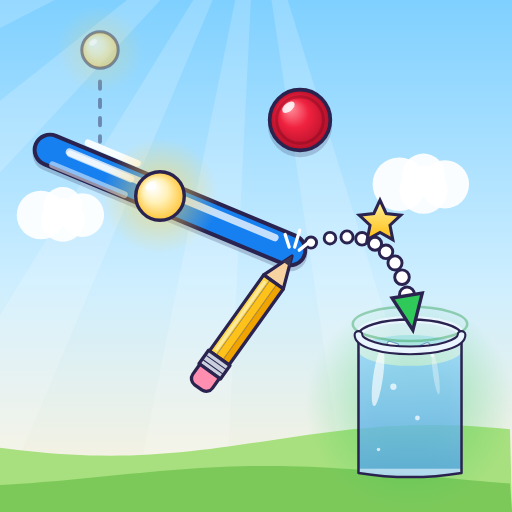
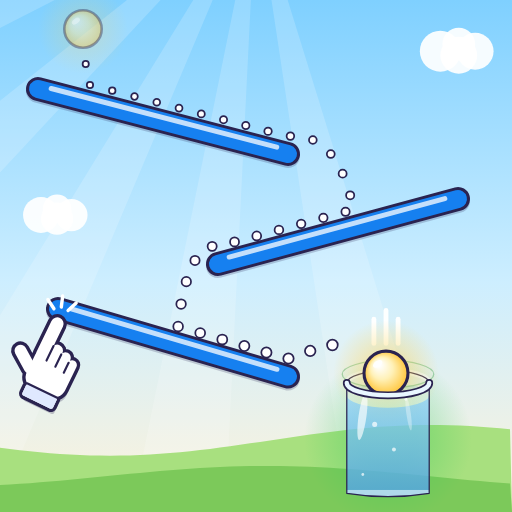
Refresh marketing art and thumbnail scene
This release updates the marketing images to the new ball-to-cup style, turns off the temporary unlock-all testing flag in RewardManager, and reworks the thumbnail generator scene to match the final composition.

Changed region(s): [[0.0, 0.0, 0.9688, 1.0], [0.8125, 0.0312, 0.9688, 0.1562]]

diff --git a/tools/thumb.entry.ts b/tools/thumb.entry.ts
@@ -7,38 +7,35 @@ import { drawSeg } from '../src/render/primitives';
 import { RAMP, INK, BALL } from '../src/render/palette';
 
 type P = [number, number];
+
+/* THE SCENE, in a 1000 x 1000 unit box: three ramps zig-zag the ball down
+   the screen into a glass of water. The ball hangs just over the mouth, the
+   moment before it drops in; the cursor hand rests at the ramp it just drew. */
+const START: P = [150, 50];
+const RAMPS: [P, P][] = [
+  [[60, 170], [560, 300]],
+  [[900, 390], [420, 520]],
+  [[100, 610], [560, 745]],
+];
+const CUP: P = [760, 870]; const CUP_R = 112;
+const BR = 44, RT = 18;                           // ball radius, ramp half-thickness
+const HAND: P = [104, 628];                        // fingertip, at R3's left end
+const BALL_AT: P = [756, CUP[1] - CUP_R - BR * 0.45];
+
 interface Layout {
-  W: number; H: number; k: number;              // canvas size, art scale
+  W: number; H: number;
+  box: { x: number; y: number; s: number };      // where the scene sits, and its scale
   title?: { x: number; y: number; size: number; sub: number; maxW: number };
-  ramp: [P, P];                                  // the drawn ramp
-  ball: P;                                       // the ball, rolling on the ramp
-  drop: P;                                       // where the ball fell from
-  arc: P[];                                      // the flight from ramp to cup (control pts)
-  cup: P; cupR: number;
-  hand: P;                                       // the finger that drew the ramp
-  obstacles: P[]; star?: P;
 }
 
 const LAYOUTS: Record<string, Layout> = {
-  landscape: { W: 1920, H: 1080, k: 1,
-    title: { x: 960, y: 175, size: 190, sub: 78, maxW: 1700 },
-    drop: [430, 300], ramp: [[330, 470], [1080, 700]], ball: [700, 556],
-    arc: [[1080, 700], [1430, 540], [1500, 690]], cup: [1500, 860], cupR: 150,
-    hand: [1090, 712], obstacles: [[880, 440], [1230, 450]], star: [1300, 618] },
-  portrait: { W: 800, H: 1200, k: 0.62,
-    title: { x: 400, y: 150, size: 128, sub: 54, maxW: 740 },
-    drop: [170, 380], ramp: [[110, 520], [560, 720]], ball: [330, 610],
-    arc: [[560, 720], [700, 690], [615, 855]], cup: [610, 1000], cupR: 116,
-    hand: [562, 736], obstacles: [[470, 520], [160, 860]], star: [668, 742] },
-  square: { W: 800, H: 800, k: 0.55,
-    title: { x: 400, y: 110, size: 104, sub: 44, maxW: 740 },
-    drop: [150, 250], ramp: [[90, 360], [500, 520]], ball: [290, 438],
-    arc: [[500, 520], [650, 470], [645, 585]], cup: [645, 690], cupR: 90,
-    hand: [504, 536], obstacles: [[420, 300], [130, 560]], star: [612, 478] },
-  icon: { W: 512, H: 512, k: 0.42,
-    drop: [100, 50], ramp: [[50, 150], [290, 250]], ball: [160, 196],
-    arc: [[290, 250], [400, 205], [410, 315]], cup: [410, 405], cupR: 70,
-    hand: [292, 256], obstacles: [[300, 120]], star: [380, 222] },
+  landscape: { W: 1920, H: 1080, box: { x: 930, y: 40, s: 0.95 },
+    title: { x: 470, y: 430, size: 176, sub: 74, maxW: 840 } },
+  portrait: { W: 800, H: 1200, box: { x: 18, y: 345, s: 0.8 },
+    title: { x: 400, y: 140, size: 128, sub: 54, maxW: 740 } },
+  square: { W: 800, H: 800, box: { x: 110, y: 205, s: 0.595 },
+    title: { x: 400, y: 92, size: 104, sub: 44, maxW: 740 } },
+  icon: { W: 512, H: 512, box: { x: 8, y: 4, s: 0.5 } },
 };
 
 function sky(ctx: CanvasRenderingContext2D, L: Layout): void {
@@ -60,7 +57,7 @@ function sky(ctx: CanvasRenderingContext2D, L: Layout): void {
       ctx.beginPath(); ctx.arc(x + dx * s, y + dy * s, r * s, 0, Math.PI * 2); ctx.fill();
     }
   };
-  cloud(L.W * 0.08, L.H * 0.42, 34 * L.k + 10); cloud(L.W * 0.78, L.H * 0.36, 40 * L.k + 10);
+  cloud(L.W * 0.08, L.H * 0.42, L.H * 0.035); cloud(L.W * 0.86, L.H * 0.1, L.H * 0.04);
   // hills
   const hill = (y: number, col: string, amp: number, ph: number) => {
     ctx.fillStyle = col; ctx.beginPath(); ctx.moveTo(0, L.H);
@@ -85,95 +82,105 @@ function ball(ctx: CanvasRenderingContext2D, x: number, y: number, r: number): v
   ctx.restore();
 }
 
-function speedLines(ctx: CanvasRenderingContext2D, L: Layout, r: number): void {
-  const [[x1, y1], [x2, y2]] = L.ramp, [bx, by] = L.ball;
-  const len = Math.hypot(x2 - x1, y2 - y1), ux = (x2 - x1) / len, uy = (y2 - y1) / len;
-  ctx.save(); ctx.lineCap = 'round';
-  for (let i = 0; i < 3; i++) {
-    const off = (i - 1) * r * 0.7, back = r * (2.2 + i * 0.5);
-    ctx.strokeStyle = `rgba(255,255,255,${0.9 - i * 0.2})`; ctx.lineWidth = r * 0.28;
-    ctx.beginPath();
-    ctx.moveTo(bx - ux * r * 1.3 - uy * off, by - uy * r * 1.3 + ux * off - r * 0.2);
-    ctx.lineTo(bx - ux * (r * 1.3 + back) - uy * off, by - uy * (r * 1.3 + back) + ux * off - r * 0.2);
-    ctx.stroke();
+
+/* The point a ball resting on ramp `r` would have its centre at, over x. */
+function onRamp(r: [P, P], x: number): P {
+  const [[x1, y1], [x2, y2]] = r;
+  const t = (x - x1) / (x2 - x1), y = y1 + (y2 - y1) * t;
+  const len = Math.hypot(x2 - x1, y2 - y1);
+  let nx = -(y2 - y1) / len, ny = (x2 - x1) / len;
+  if (ny > 0) { nx = -nx; ny = -ny; }             // the side facing up
+  return [x + nx * (RT + 16), y + ny * (RT + 16)];
+}
+
+/* The ball's route as a polyline: drop, roll, hop, roll, hop, roll, over the cup. */
+function route(): P[] {
+  const pts: P[] = [];
+  const quad = (a: P, c: P, b: P, n = 14) => {
+    for (let i = 1; i <= n; i++) {
+      const t = i / n;
+      pts.push([(1 - t) ** 2 * a[0] + 2 * (1 - t) * t * c[0] + t * t * b[0],
+                (1 - t) ** 2 * a[1] + 2 * (1 - t) * t * c[1] + t * t * b[1]]);
+    }
+  };
+  const line = (a: P, b: P, n = 16) => { for (let i = 1; i <= n; i++) { const t = i / n; pts.push([a[0] + (b[0] - a[0]) * t, a[1] + (b[1] - a[1]) * t]); } };
+  pts.push(START);
+  const l1 = onRamp(RAMPS[0], START[0]); line(START, l1, 8);
+  const e1 = onRamp(RAMPS[0], RAMPS[0][1][0] - 10); line(l1, e1);
+  const l2 = onRamp(RAMPS[1], 700); quad(e1, [660, e1[1] - 10], l2);
+  const e2 = onRamp(RAMPS[1], RAMPS[1][1][0] + 10); line(l2, e2);
+  const l3 = onRamp(RAMPS[2], 330); quad(e2, [360, e2[1] - 10], l3);
+  const e3 = onRamp(RAMPS[2], RAMPS[2][1][0] - 10); line(l3, e3);
+  quad(e3, [720, e3[1] - 60], [BALL_AT[0], BALL_AT[1] - BR]);
+  return pts;
+}
+
+/* White dots along the route, evenly spaced, growing toward the ball. */
+function trail(ctx: CanvasRenderingContext2D): void {
+  const pts = route();
+  const cum = [0];
+  for (let i = 1; i < pts.length; i++) cum.push(cum[i - 1] + Math.hypot(pts[i][0] - pts[i - 1][0], pts[i][1] - pts[i - 1][1]));
+  const total = cum[cum.length - 1], step = 46;
+  let j = 0;
+  for (let d = BR * 1.6; d < total - BR * 1.8; d += step) {
+    while (cum[j + 1] < d) j++;
+    const t = (d - cum[j]) / (cum[j + 1] - cum[j]);
+    const x = pts[j][0] + (pts[j + 1][0] - pts[j][0]) * t, y = pts[j][1] + (pts[j + 1][1] - pts[j][1]) * t;
+    const k = d / total;
+    ctx.fillStyle = '#ffffff'; ctx.strokeStyle = INK; ctx.lineWidth = 3.5;
+    ctx.beginPath(); ctx.arc(x, y, 6 + 5 * k, 0, Math.PI * 2); ctx.fill(); ctx.stroke();
   }
-  ctx.restore();
 }
 
-function dotted(ctx: CanvasRenderingContext2D, pts: P[], r: number, col = '#ffffff'): void {
-  const [a, c, b] = pts;
-  const n = 9;
-  for (let i = 1; i <= n; i++) {
-    const t = i / (n + 1);
-    const x = (1 - t) * (1 - t) * a[0] + 2 * (1 - t) * t * c[0] + t * t * b[0];
-    const y = (1 - t) * (1 - t) * a[1] + 2 * (1 - t) * t * c[1] + t * t * b[1];
-    ctx.fillStyle = col; ctx.strokeStyle = INK; ctx.lineWidth = Math.max(2, r * 0.12);
-    ctx.beginPath(); ctx.arc(x, y, r * (0.22 + 0.1 * t), 0, Math.PI * 2); ctx.fill(); ctx.stroke();
-  }
-  // arrow head into the cup
-  const t = 0.97, t2 = 0.9;
-  const P = (t: number) => [(1 - t) * (1 - t) * a[0] + 2 * (1 - t) * t * c[0] + t * t * b[0], (1 - t) * (1 - t) * a[1] + 2 * (1 - t) * t * c[1] + t * t * b[1]];
-  const [x, y] = P(t), [px, py] = P(t2), ang = Math.atan2(y - py, x - px), s = r * 0.9;
-  ctx.save(); ctx.translate(x, y); ctx.rotate(ang);
-  ctx.beginPath(); ctx.moveTo(s, 0); ctx.lineTo(-s * 0.6, -s * 0.7); ctx.lineTo(-s * 0.6, s * 0.7); ctx.closePath();
-  ctx.fillStyle = '#2fc95a'; ctx.fill(); ctx.lineWidth = Math.max(3, r * 0.14); ctx.strokeStyle = INK; ctx.stroke();
-  ctx.restore();
-}
-
-function dropLine(ctx: CanvasRenderingContext2D, L: Layout, r: number): void {
-  const [dx, dy] = L.drop, [rx, ry] = L.ramp[0];
-  ctx.save(); ctx.setLineDash([r * 0.3, r * 0.45]); ctx.lineCap = 'round';
-  ctx.strokeStyle = 'rgba(42,35,80,.45)'; ctx.lineWidth = r * 0.16;
-  ctx.beginPath(); ctx.moveTo(dx, dy + r * 1.3); ctx.lineTo(dx, ry + (dx - rx) * ((L.ramp[1][1] - ry) / (L.ramp[1][0] - rx)) - r * 1.2); ctx.stroke();
-  ctx.restore();
-  // the spawn: a faint ball outline where it dropped from
-  ctx.save(); ctx.globalAlpha = 0.45; ball(ctx, dx, dy, r * 0.75); ctx.restore();
-}
-
-function hand(ctx: CanvasRenderingContext2D, x: number, y: number, s: number): void {
-  // a big friendly PENCIL drawing the ramp: its tip at (x, y), coming in from the bottom-left
-  ctx.save(); ctx.translate(x, y); ctx.rotate(0.62); ctx.scale(s, s);
-  ctx.lineJoin = 'round'; ctx.lineWidth = 6; ctx.strokeStyle = INK;
-  // sparkles where it draws
+/* The pointer hand everybody knows from a mouse cursor: a white glove, index
+   finger up, fingertip at the origin. Drawn as a union - every piece stroked
+   fat in ink first, then every piece filled white over it - so it reads as
+   one clean outlined shape. */
+function cursorHand(ctx: CanvasRenderingContext2D, x: number, y: number, s: number, rot: number): void {
+  ctx.save(); ctx.translate(x, y); ctx.rotate(rot); ctx.scale(s, s);
+  const parts = (c: CanvasRenderingContext2D) => {
+    c.beginPath();
+    c.roundRect(-15, 0, 30, 112, 15);              // index finger
+    c.roundRect(13, 58, 28, 62, 14);               // middle, folded
+    c.roundRect(39, 66, 26, 56, 13);               // ring
+    c.roundRect(63, 76, 22, 48, 11);               // little
+    c.roundRect(-15, 92, 100, 86, [10, 10, 30, 30]); // palm
+    c.roundRect(-3, 172, 80, 30, 6);               // cuff
+  };
+  const thumb = (c: CanvasRenderingContext2D) => {
+    c.save(); c.translate(-8, 140); c.rotate(-0.95);
+    c.beginPath(); c.roundRect(-14, -66, 28, 74, 14); c.restore();
+  };
+  // shadow
+  ctx.save(); ctx.translate(8, 10); ctx.fillStyle = 'rgba(42,35,80,.25)';
+  parts(ctx); ctx.fill(); thumb(ctx); ctx.fill(); ctx.restore();
+  // outline, then fill
+  ctx.lineJoin = 'round'; ctx.strokeStyle = INK; ctx.lineWidth = 16;
+  parts(ctx); ctx.stroke(); thumb(ctx); ctx.stroke();
   ctx.fillStyle = '#ffffff';
-  for (const [a, l] of [[-2.5, 30], [-1.9, 38], [-1.3, 30]] as const) {
-    ctx.save(); ctx.rotate(a); ctx.beginPath(); ctx.roundRect(14, -3, l, 6, 3); ctx.fill(); ctx.restore();
+  parts(ctx); ctx.fill(); thumb(ctx); ctx.fill();
+  // cuff tint and the creases between fingers
+  ctx.fillStyle = '#dfe8ff'; ctx.beginPath(); ctx.roundRect(-3, 172, 80, 30, 6); ctx.fill();
+  ctx.strokeStyle = INK; ctx.lineWidth = 5; ctx.lineCap = 'round';
+  ctx.beginPath(); ctx.moveTo(-3, 172); ctx.lineTo(77, 172); ctx.stroke();
+  for (const [cx, y0, y1] of [[15, 66, 104], [40, 76, 108], [64, 86, 112]] as const) {
+    ctx.beginPath(); ctx.moveTo(cx, y0); ctx.lineTo(cx, y1); ctx.stroke();
   }
-  const w = 44;                                   // body width; the pencil runs down +y
-  // wood cone and graphite point
-  ctx.fillStyle = '#f6d3a1';
-  ctx.beginPath(); ctx.moveTo(0, 0); ctx.lineTo(w / 2, 58); ctx.lineTo(-w / 2, 58); ctx.closePath(); ctx.fill(); ctx.stroke();
-  ctx.fillStyle = '#3a3550';
-  ctx.beginPath(); ctx.moveTo(0, 0); ctx.lineTo(8, 18); ctx.lineTo(-8, 18); ctx.closePath(); ctx.fill();
-  // the painted body, in three faces
-  const body = (x0: number, x1: number, col: string) => { ctx.fillStyle = col; ctx.fillRect(x0, 58, x1 - x0, 170); };
-  body(-w / 2, -w / 6, '#ffd84a'); body(-w / 6, w / 6, '#ffc21a'); body(w / 6, w / 2, '#f0a400');
-  ctx.beginPath(); ctx.rect(-w / 2, 58, w, 170); ctx.stroke();
-  ctx.lineWidth = 2; ctx.strokeStyle = 'rgba(42,35,80,.35)';
-  for (const xx of [-w / 6, w / 6]) { ctx.beginPath(); ctx.moveTo(xx, 58); ctx.lineTo(xx, 228); ctx.stroke(); }
-  ctx.lineWidth = 6; ctx.strokeStyle = INK;
-  // metal band
-  ctx.fillStyle = '#c9cfdc'; ctx.beginPath(); ctx.rect(-w / 2 - 2, 228, w + 4, 30); ctx.fill(); ctx.stroke();
-  ctx.lineWidth = 2;
-  for (const yy of [238, 248]) { ctx.beginPath(); ctx.moveTo(-w / 2, yy); ctx.lineTo(w / 2, yy); ctx.stroke(); }
-  ctx.lineWidth = 6;
-  // pink eraser
-  ctx.fillStyle = '#ff8fb1'; ctx.beginPath(); ctx.roundRect(-w / 2, 258, w, 36, [0, 0, 14, 14]); ctx.fill(); ctx.stroke();
-  // shine down the lit face
-  ctx.fillStyle = 'rgba(255,255,255,.45)'; ctx.fillRect(-w / 2 + 6, 66, 6, 154);
+  // a little tap burst at the fingertip
+  ctx.strokeStyle = '#ffffff'; ctx.lineWidth = 8;
+  for (const a of [-2.6, -1.9, -1.2]) {
+    ctx.beginPath(); ctx.moveTo(Math.cos(a) * 26, Math.sin(a) * 26); ctx.lineTo(Math.cos(a) * 52, Math.sin(a) * 52); ctx.stroke();
+  }
   ctx.restore();
 }
 
-function starShape(ctx: CanvasRenderingContext2D, x: number, y: number, s: number): void {
-  ctx.save(); ctx.translate(x, y);
-  ctx.beginPath();
-  for (let i = 0; i < 10; i++) {
-    const a = -Math.PI / 2 + i * Math.PI / 5, rr = i % 2 ? s * 0.48 : s;
-    i ? ctx.lineTo(Math.cos(a) * rr, Math.sin(a) * rr) : ctx.moveTo(Math.cos(a) * rr, Math.sin(a) * rr);
+/* Short streaks over the ball: it is falling, straight in. */
+function fallLines(ctx: CanvasRenderingContext2D, x: number, y: number, r: number): void {
+  ctx.save(); ctx.lineCap = 'round'; ctx.strokeStyle = 'rgba(255,255,255,.95)';
+  for (const [dx, l] of [[-0.55, 1.1], [0, 1.5], [0.55, 1.1]] as const) {
+    ctx.lineWidth = r * 0.22;
+    ctx.beginPath(); ctx.moveTo(x + dx * r, y - r * 1.35); ctx.lineTo(x + dx * r, y - r * (1.35 + l)); ctx.stroke();
   }
-  ctx.closePath();
-  const g = ctx.createLinearGradient(0, -s, 0, s); g.addColorStop(0, '#fff3a0'); g.addColorStop(1, '#ffb800');
-  ctx.fillStyle = g; ctx.fill(); ctx.lineWidth = Math.max(3, s * 0.14); ctx.strokeStyle = INK; ctx.stroke();
   ctx.restore();
 }
 
@@ -222,22 +229,20 @@ function render(name: string): void {
   const c = document.createElement('canvas'); c.width = L.W; c.height = L.H; c.id = 'c';
   document.body.appendChild(c);
   const ctx = c.getContext('2d')!;
-  const br = 34 * L.k + 10;                         // ball radius in this layout
-  sky(ctx, L);
-  for (const [x, y] of L.obstacles) drawObstacle(ctx, { x, y, r: br * 1.25 });
-  dropLine(ctx, L, br);
-  // the cup, back half
-  ctx.save(); ctx.translate(L.cup[0], L.cup[1]); drawCupBack(ctx, L.cupR, 'meadow', 0.6); ctx.restore();
-  // the ramp the player drew
-  const [[x1, y1], [x2, y2]] = L.ramp;
-  drawSeg(ctx, { x1, y1, x2, y2 }, br * 0.55, { fill: RAMP.base, shine: 'rgba(255,255,255,.75)', outline: Math.max(4, br * 0.16), shadow: true });
-  dotted(ctx, L.arc, br);
-  if (L.star) starShape(ctx, L.star[0], L.star[1], br * 0.9);
-  speedLines(ctx, L, br);
-  ball(ctx, L.ball[0], L.ball[1], br);
-  ctx.save(); ctx.translate(L.cup[0], L.cup[1]); drawCupFront(ctx, L.cupR, 'meadow', 0.6); ctx.restore();
-  hand(ctx, L.hand[0], L.hand[1], 0.95 * L.k + 0.15);
-  if (L.title) titleBlock(ctx, L);
+  sky(ctx, L as any);
+  ctx.save(); ctx.translate(L.box.x, L.box.y); ctx.scale(L.box.s, L.box.s);
+  // where the ball started: a faint ghost at the top
+  ctx.save(); ctx.globalAlpha = 0.4; ball(ctx, START[0], START[1], BR * 0.85); ctx.restore();
+  ctx.save(); ctx.translate(CUP[0], CUP[1]); drawCupBack(ctx, CUP_R, 'meadow', 0.6); ctx.restore();
+  for (const [[x1, y1], [x2, y2]] of RAMPS)
+    drawSeg(ctx, { x1, y1, x2, y2 }, RT, { fill: RAMP.base, shine: 'rgba(255,255,255,.75)', outline: 6, shadow: true });
+  trail(ctx);
+  fallLines(ctx, BALL_AT[0], BALL_AT[1], BR);
+  ball(ctx, BALL_AT[0], BALL_AT[1], BR);
+  ctx.save(); ctx.translate(CUP[0], CUP[1]); drawCupFront(ctx, CUP_R, 'meadow', 0.6); ctx.restore();
+  cursorHand(ctx, HAND[0], HAND[1], 0.85, 0.45);
+  ctx.restore();
+  if (L.title) titleBlock(ctx, L as any);
 }
 
 (window as any).render = render;

diff --git a/src/audio/Sound.ts b/src/audio/Sound.ts
@@ -368,6 +368,24 @@ class SoundEngine {
     src.stop(t + dur + 0.02);
   }
 
+  /* A muffled pop: band-passed noise with a short attack and a soft tail. */
+  private softPop(dest: AudioNode, t: number, dur: number, peak: number, centre: number): void {
+    const c = this.ctx!;
+    const src = c.createBufferSource();
+    src.buffer = this.noiseBuf;
+    const f = c.createBiquadFilter();
+    f.type = "bandpass";
+    f.frequency.value = centre;
+    f.Q.value = 1.2;
+    const g = c.createGain();
+    g.gain.setValueAtTime(0.0001, t);
+    g.gain.exponentialRampToValueAtTime(peak, t + 0.006);
+    g.gain.exponentialRampToValueAtTime(0.0001, t + dur);
+    src.connect(f); f.connect(g); g.connect(dest);
+    src.start(t);
+    src.stop(t + dur + 0.02);
+  }
+
   /* A tone whose pitch moves: up to `f1` in the first third, then on to `f2`.
      A fast bend is what makes a hit read as a cartoon "boing". */
   private sweep(
@@ -713,44 +731,26 @@ class SoundEngine {
       }, 90);
       this.amb = { kind: "water", srcs: [hum.src], timer };
     } else {
-      /* CRACKLE, not roar: no continuous noise at all (a filtered hiss is
-         wind), only tiny sharp clicks in quick clusters - the snap of wood -
-         and now and then a soft low pop. Kept well under the music. */
+      /* A WARM HEARTH, not a crackle. The old version was tiny high-passed
+         clicks of a few milliseconds, which on real speakers read as a
+         damaged cone. Now: a soft low rumble that slowly breathes, and now
+         and then a muffled "pop" - band-passed, with a real attack and a
+         decay long enough to sound like wood, not like a fault. */
+      const bed = loop(60, 420, 0.02 * FIRE_VOLUME);
+      const lfo = c.createOscillator(), depth = c.createGain();
+      lfo.frequency.value = 0.21;
+      depth.gain.value = 0.008 * FIRE_VOLUME;
+      lfo.connect(depth); depth.connect(bed.g.gain); lfo.start();
       const timer = setInterval(() => {
-        if (
-          !this.ctx ||
-          this.ctx.state !== "running" ||
-          this.isMuted ||
-          FIRE_VOLUME <= 0
-        )
+        if (!this.ctx || this.ctx.state !== "running" || this.isMuted || FIRE_VOLUME <= 0)
           return;
-        const t0 = this.ctx.currentTime;
-        if (Math.random() < 0.35) {
-          let t = t0 + Math.random() * 0.03;
-          for (let k = 0, n = 1 + Math.floor(Math.random() * 4); k < n; k++) {
-            this.noise(
-              this.ambBus!,
-              t,
-              0.003 + Math.random() * 0.006,
-              (0.008 + Math.random() * 0.014) * FIRE_VOLUME,
-              2500 + Math.random() * 3000,
-            );
-            t += 0.006 + Math.random() * 0.022;
-          }
-        }
-        if (Math.random() < 0.03)
-          this.sweep(
-            this.ambBus!,
-            240,
-            170,
-            90,
-            t0 + 0.01,
-            0.06,
-            0.012 * FIRE_VOLUME,
-            "sine",
-          );
+        if (Math.random() < 0.05)
+          this.softPop(this.ambBus!, this.ctx.currentTime + Math.random() * 0.04,
+                       0.05 + Math.random() * 0.05,
+                       (0.05 + Math.random() * 0.05) * FIRE_VOLUME,
+                       700 + Math.random() * 700);
       }, 45);
-      this.amb = { kind: "fire", srcs: [], timer };
+      this.amb = { kind: "fire", srcs: [bed.src, lfo], timer };
     }
   }
 

diff --git a/src/managers/RewardManager.ts b/src/managers/RewardManager.ts
@@ -407,7 +407,7 @@ export function starNote(
    set back to false before release. Only the level picker is affected: real
    progress, stars and coins are untouched.
    !!!!!!!!!!!!!!!!!!!!!!!!!!!!!!!!!!!!!!!!!!!!!!!!!!!!!!!!!!!!!!!!!!!!!!!!!!!! */
-export const TEMP_UNLOCK_ALL = true;
+export const TEMP_UNLOCK_ALL = false;
 
 /** The dev unlock: DEV builds only, and only when asked for in storage -
     or everywhere while TEMP_UNLOCK_ALL is on. */
